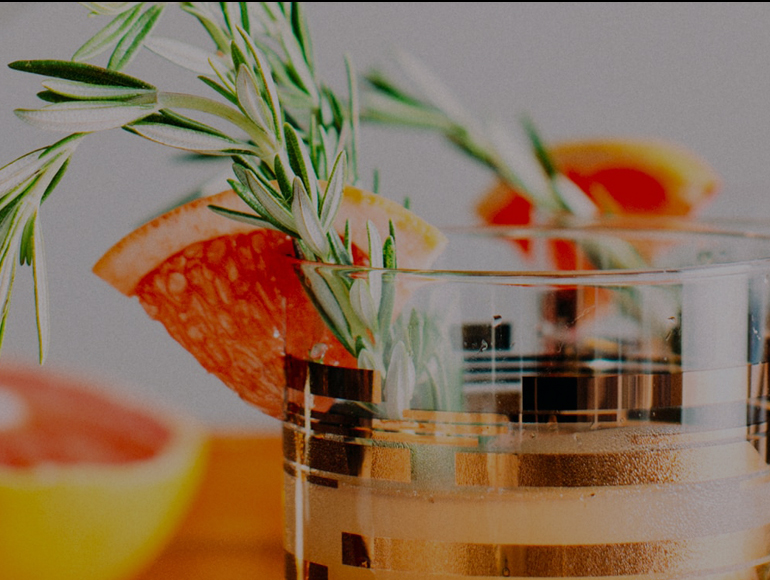
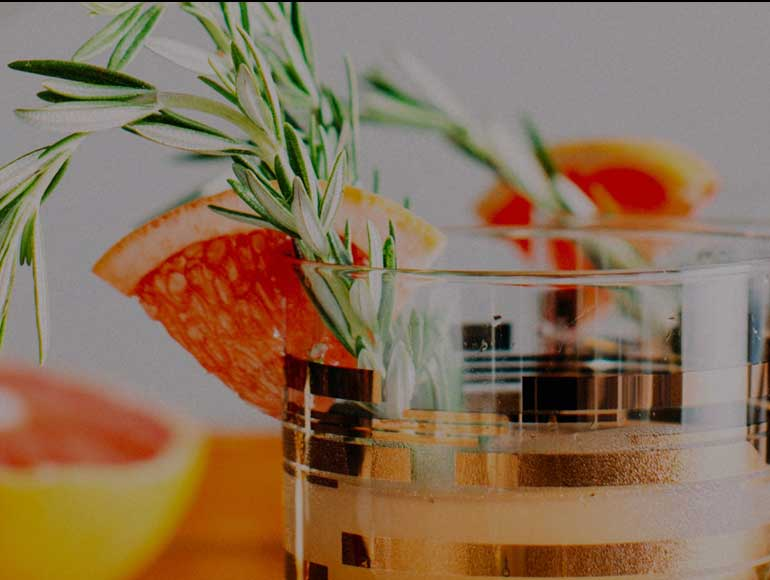
이미지 최적화

diff --git a/Cocktailer/WebContent/css/sub1.css b/Cocktailer/WebContent/css/sub1.css
@@ -129,7 +129,7 @@ footer {
 	div.banner {
 		height: 580px;
 		width: 100%;
-		background: url(../imgs/ourRumsTitleBoxImg.png) no-repeat center;
+		background: url(../imgs/ourRumsTitleBoxImg.jpg) no-repeat center;
 		background-size: cover;
 		position: relative;
 	}
@@ -520,7 +520,7 @@ footer {
 	.banner {
 		height: 580px;
 		width: 100%;
-		background: url(../imgs/ourRumsTitleBoxImg.png) no-repeat center;
+		background: url(../imgs/ourRumsTitleBoxImg.jpg) no-repeat center;
 		background-size: cover;
 		position: relative;
 	}
@@ -909,7 +909,7 @@ footer {
 		position: relative;
 		height: 580px;
 		width: 100%;
-		background: url(../imgs/ourRumsTitleBoxImg.png) no-repeat center;
+		background: url(../imgs/ourRumsTitleBoxImg.jpg) no-repeat center;
 		background-size: cover;
 	}
 	.banner::before {
@@ -1294,7 +1294,7 @@ footer {
 	.banner {
 		height: 610px;
 		width: 100%;
-		background: url(../imgs/ourRumsTitleBoxImg.png) no-repeat center;
+		background: url(../imgs/ourRumsTitleBoxImg.jpg) no-repeat center;
 		background-size: cover;
 		position: relative;
 	}

diff --git a/Cocktailer/WebContent/js/sub1.js b/Cocktailer/WebContent/js/sub1.js
@@ -76,11 +76,6 @@ $(document).ready(function() {
 		console.log(targetClass);
 	});
 
-	/*
-	 * $("#searchBtn").click(function() { if
-	 * ($(".itemShow").attr("display")=="none") alert("찾을 조건을 선택해주세요."); else
-	 * $(".itemShow").fadeIn(); });
-	 */
 
 	// 라디오-체크박스 적용 (inline-block처럼 서로의 특징 혼합)
 	$("#noseBtn").click(function() {
@@ -138,7 +133,7 @@ $(document).ready(function() {
 		}, 30, "swing");
 	});
 
-	// .itemShow 좌우 스크롤
+	// 우측 서브메뉴 좌우 스크롤
 	$(".toLeft").click(function() {
 		$(".itemShow").animate({
 			scrollLeft : "-=90"
